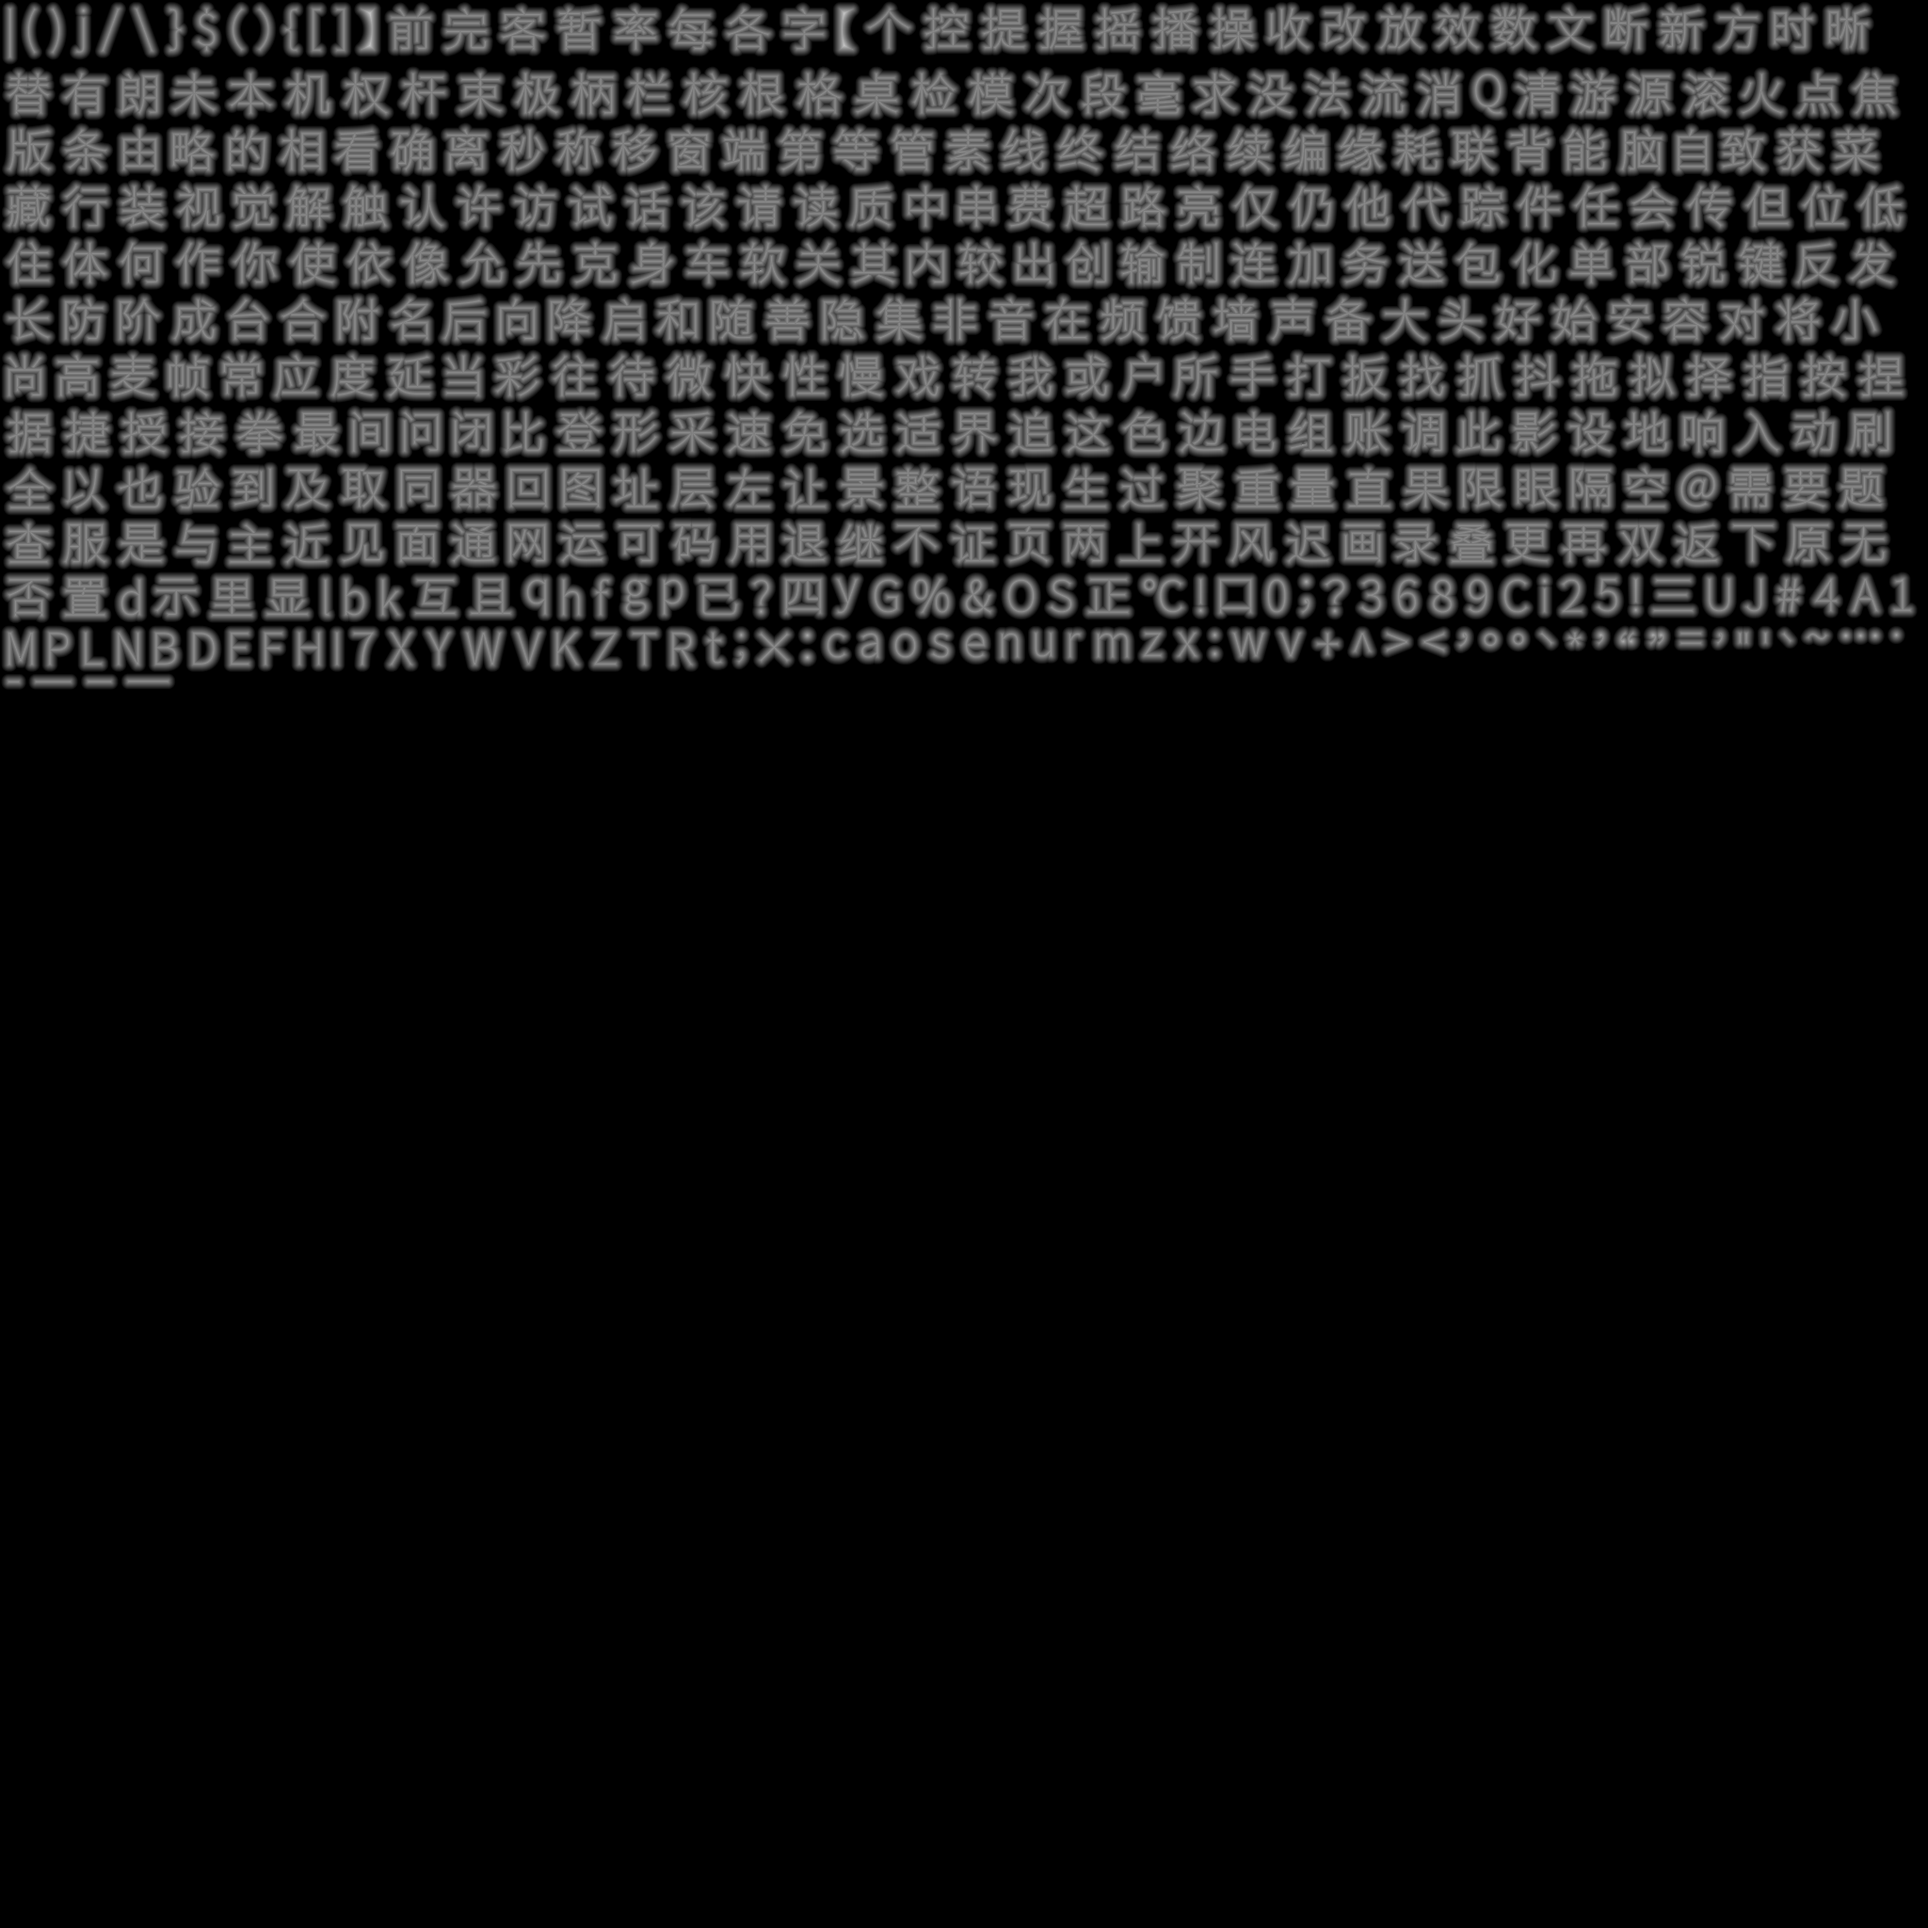
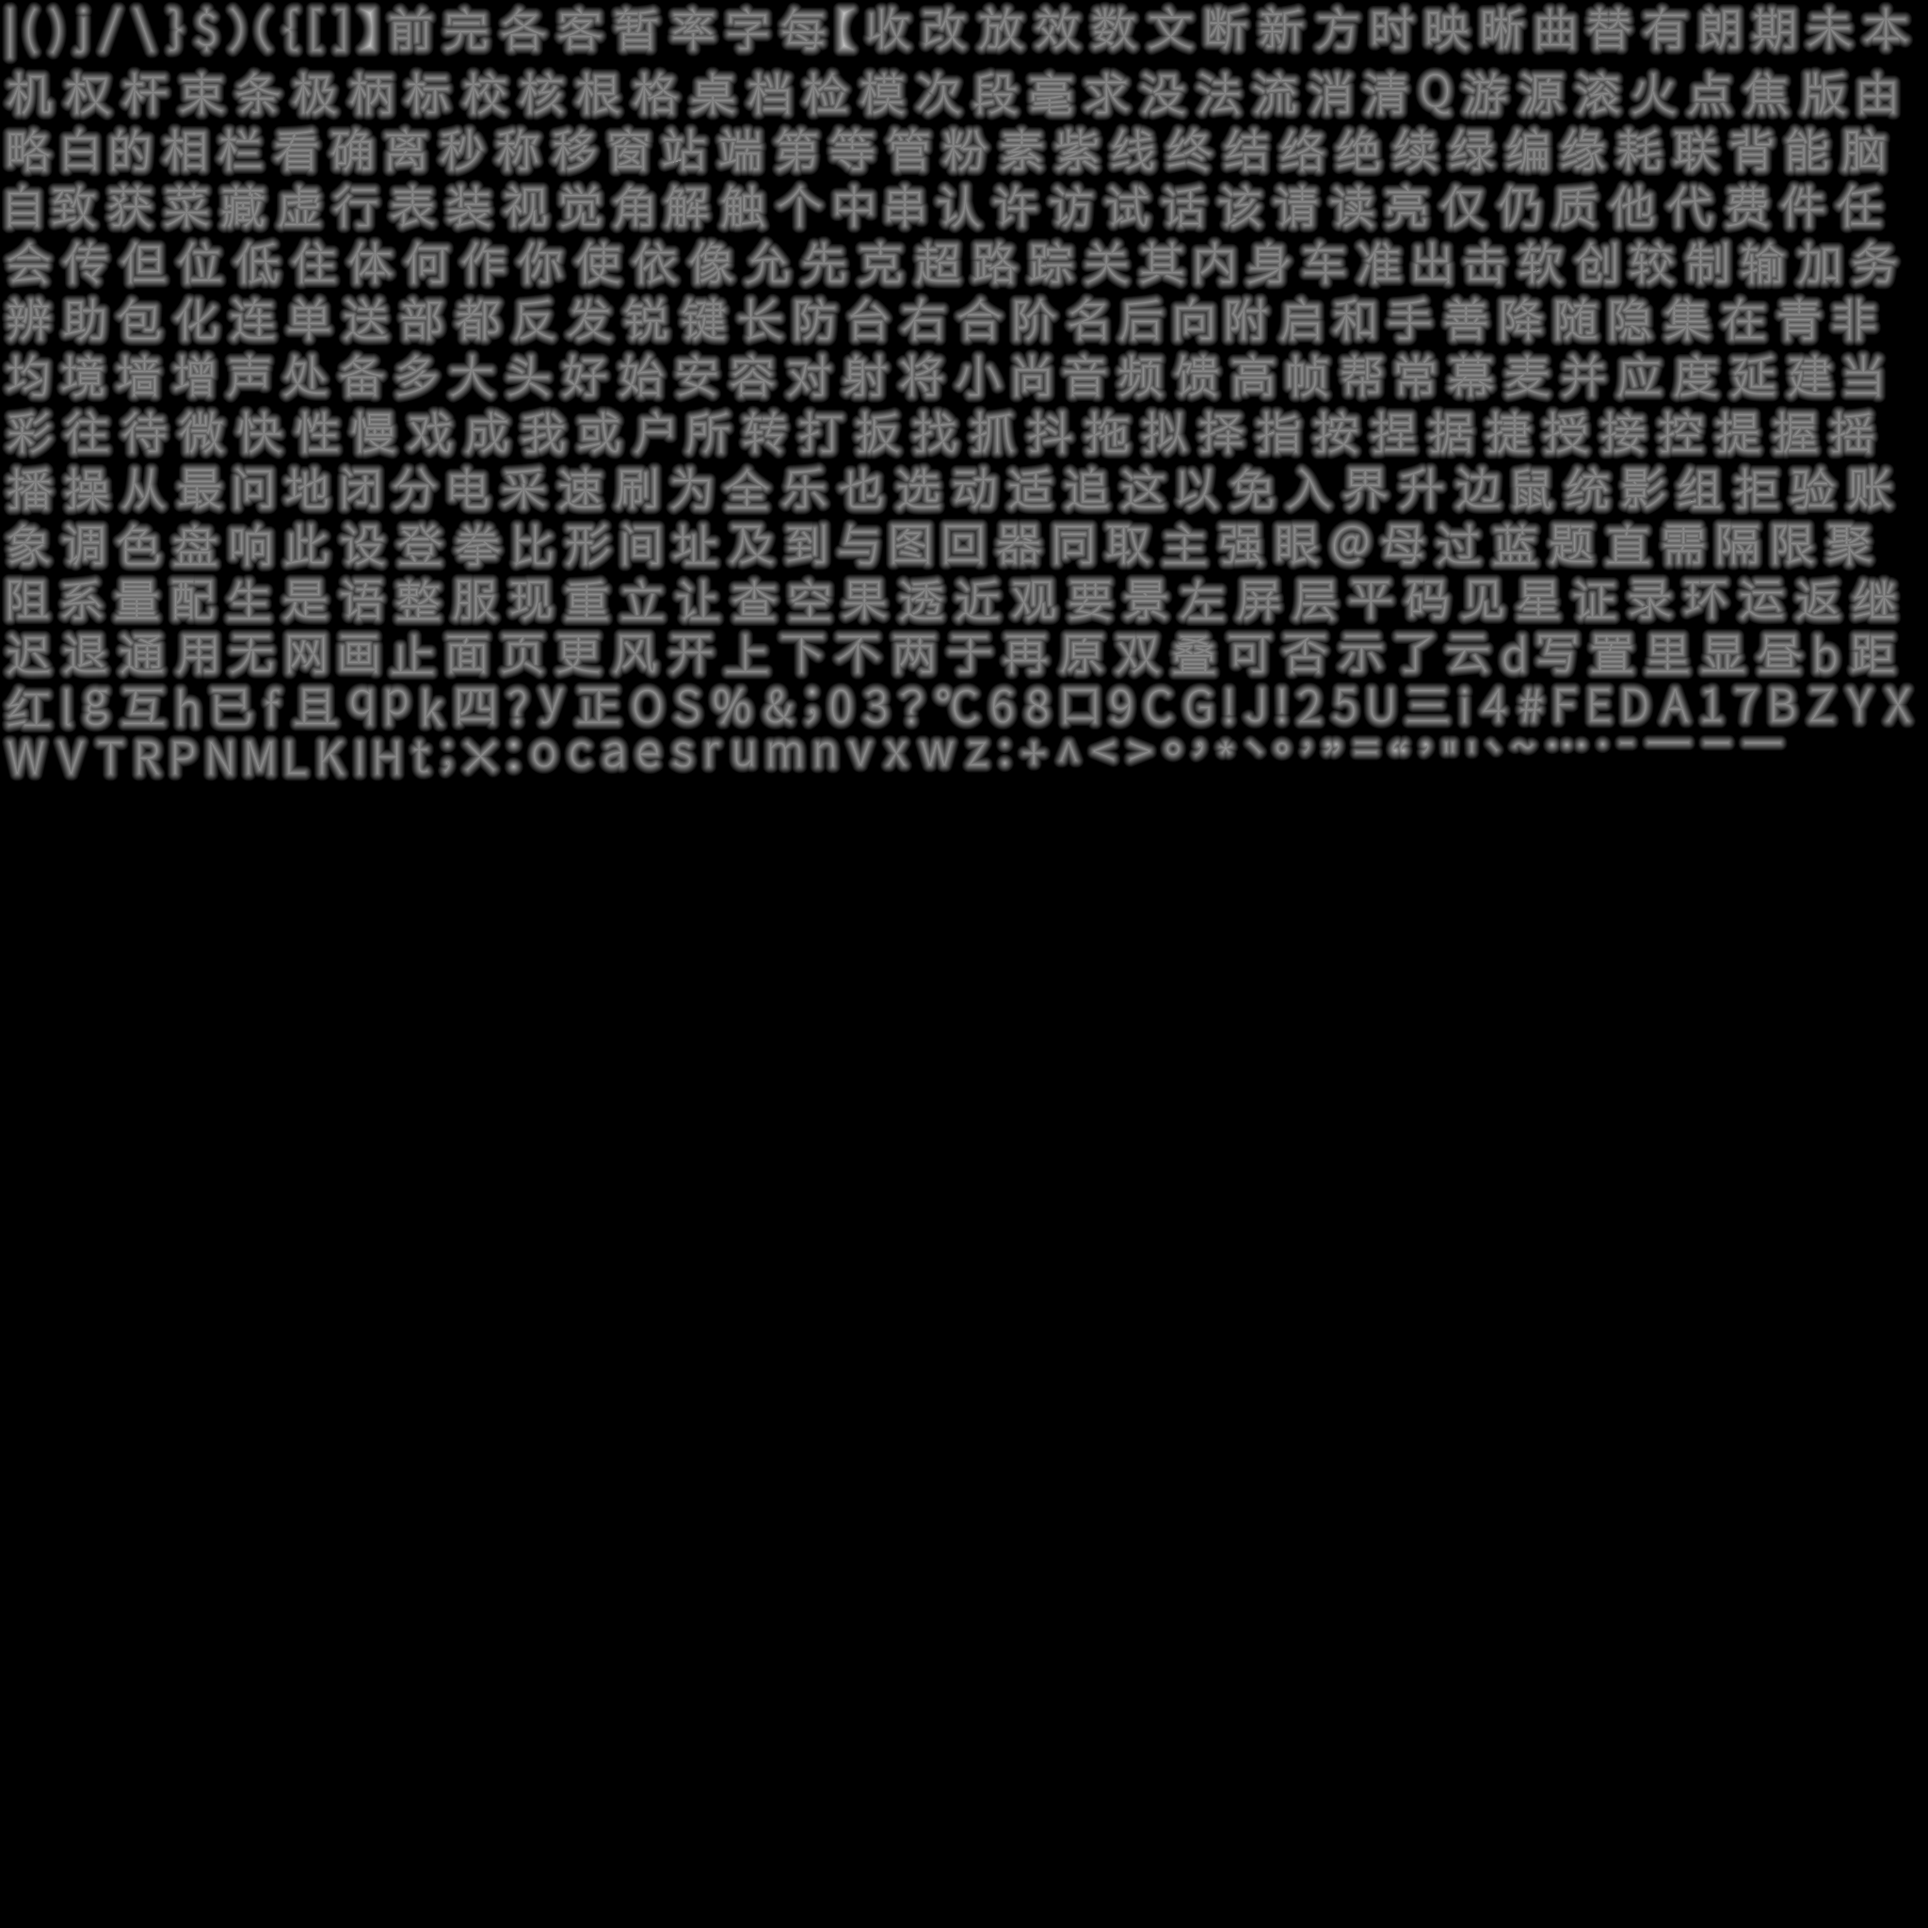
Complete headset zh-CN coverage for menus, Desktop page and status messages

Changed region(s): [[0.0, 0.0, 1.0, 0.4062]]

diff --git a/headset/app/src/main/cpp/ui/localization.h b/headset/app/src/main/cpp/ui/localization.h
@@ -10,12 +10,48 @@ inline const std::unordered_map<std::string, std::string>& Dictionary() {
     static const std::unordered_map<std::string, std::string> k = {
         {"On","开启"},{"Off","关闭"},{"on","开启"},{"off","关闭"},{"selected","已选中"},
         {"Home","主页"},{"PCs","电脑"},{"Games","游戏"},{"Settings","设置"},{"Account","账户"},
+        {"Desktop","桌面"},{"Keyboard","键盘"},{"Menu","菜单"},{"General","通用"},{"Environment","环境"},{"Help","帮助"},
+        {"Esc","退出"},{"Tab","制表"},{"Ctrl","控制"},{"Alt","替代"},{"Win","系统键"},
+        {"Left","左"},{"Up","上"},{"Down","下"},{"Right","右"},{"Shift","上档"},{"Caps","大写"},{"ABC","字母"},
+        {"Image","画面"},{"Maximum","最高"},{"Enhancements","画质增强"},{"Upscaling","升频"},
+        {"Screens","屏幕"},{"Quality","画质"},{"Curve","曲率"},{"Flat","平面"},{"Distance","距离"},{"Recenter","重置视角"},
+        {"Audio","音频"},{"Controllers","控制器"},{"Connecting","连接"},{"Interface","界面"},{"Size","大小"},{"Music","背景音乐"},
+        {"Click","点击"},{"Right-click","右键点击"},{"Scroll","滚动"},{"Middle-click","中键点击"},
+        {"Violet Nebula","紫色星云"},{"Blue Nebula","蓝色星云"},{"Cyan Nebula","青色星云"},{"Green Nebula","绿色星云"},
+        {"Pink Nebula","粉色星云"},{"Red Nebula","红色星云"},{"Day Clouds","白昼云层"},{"Void","虚空"},{"Passthrough","透视"},
+        {"Quest settings","Quest 设置"},{"PICO's settings","PICO 设置"},{"the headset's settings","头显设置"},
+        {"For avatars, through VRCFaceTracking on the PC","用于虚拟形象，可通过电脑端 VRCFaceTracking 使用"},
+        {"Pair Motion Trackers in PICO's tracker app","请在 PICO Motion Tracker 应用中配对追踪器"},
+        {"The Motion Trackers need calibrating","动作追踪器需要校准"},{"Connect more Motion Trackers","请连接更多动作追踪器"},
+        {"Tracking the whole body","正在追踪全身"},{"With PICO Motion Trackers","使用 PICO Motion Tracker"},{"Calibrate","校准"},
         {"Connect","连接"},{"Disconnect","断开连接"},{"Cancel","取消"},{"Dismiss","关闭"},
         {"Try again","重试"},{"Look again","重新查找"},{"Refresh","刷新"},{"Back","返回"},
         {"Choose a PC","选择电脑"},{"Choose a game","选择游戏"},{"Connect to a PC first","请先连接电脑"},
         {"Couldn't connect","无法连接"},{"Couldn't start VR","无法启动 VR"},{"Your PC didn't answer","电脑没有响应"},
         {"Connection problem. " ,"连接出现问题。"},{"Check the connection, then try again.","请检查连接后重试。"},
         {"The connection dropped. Trying again.","连接中断，正在重试。"},{"The PC ended the session.","电脑已结束会话。"},
+        {"Connected","已连接"},{"Disconnected","已断开"},{"Connection lost.","连接已断开。"},
+        {"Network unavailable","网络不可用"},{"The PC refused the connection.","电脑拒绝了连接。"},
+        {"The PC didn't answer over the USB cable. Check RinCast Streamer on the PC for a firewall message.","电脑未通过 USB 数据线响应。请检查电脑端的 RinCast Streamer 是否有防火墙提示。"},
+        {"The PC didn't answer. Check that the VPN is on, on both devices.","电脑没有响应。请确认两台设备均已连接 VPN。"},
+        {"The PC didn't answer. Check that both are on the same network.","电脑没有响应。请确认两台设备处于同一网络。"},
+        {"The PC didn't respond. Make sure the RinCast Streamer is running and online.","电脑没有响应。请确认 RinCast Streamer 正在运行并在线。"},
+        {"No direct connection was possible: both networks block incoming connections. Using the same Wi-Fi, IPv6, or allowing automatic port sharing for the PC in its router helps.","无法建立直连：两端网络都阻止了入站连接。让两台设备使用同一 Wi-Fi、启用 IPv6，或在路由器中为电脑开启自动端口映射会有所帮助。"},
+        {"Your sign-in expired. Sign in again to reach PCs on other networks.","登录已过期。请重新登录以从其他网络连接电脑。"},
+        {"Can't reach the RinCast server. Check your internet connection.","无法连接 RinCast 服务器。请检查网络连接。"},
+        {"Can't reach the RinCast server's connection service.","无法连接 RinCast 服务器的连接服务。"},
+        {"Can't reach the RinCast server.","无法连接 RinCast 服务器。"},
+        {"Sign-in is unavailable right now.","当前无法登录。"},
+        {"The code expired. Try again.","验证码已过期，请重试。"},
+        {"Sign in to connect to PCs on other networks.","请登录以从其他网络连接电脑。"},
+        {"Couldn't connect.","无法连接。"},
+        {"This PC now lets the headset use its mouse and keyboard.","这台电脑现已允许头显使用鼠标和键盘。"},
+        {"This PC turned off the headset's mouse and keyboard. You can still watch.","这台电脑已关闭头显的鼠标和键盘控制，你仍可观看画面。"},
+        {"This PC has the headset's mouse and keyboard turned off. You can still watch.","这台电脑的头显鼠标和键盘控制已关闭，你仍可观看画面。"},
+        {"SteamVR did not start. Check SteamVR on your PC.","SteamVR 未能启动。请检查电脑上的 SteamVR。"},
+        {"SteamVR is not installed on this PC.","此电脑未安装 SteamVR。"},
+        {"Could not launch the game","无法启动游戏"},
+        {"Restart SteamVR to use the new resolution.","请重启 SteamVR 以应用新的分辨率。"},
         {"Waiting for your PC","正在等待电脑"},{"Waiting for you to confirm","等待你确认"},
         {"Looking for your PC","正在查找电脑"},{"Still looking for your PC","仍在查找电脑"},
         {"Looking for games on your PC","正在查找电脑上的游戏"},{"No VR games found","未找到 VR 游戏"},
@@ -108,12 +144,15 @@ inline const std::unordered_map<std::string, std::string>& Dictionary() {
         {"Connected to","已连接到"},{" ms round trip"," 毫秒往返"},
         {" ms"," 毫秒"},{" fps"," 帧"},{" Mbps"," Mbps"},
         {"Frame generation: %u frames in the last %.0f s","帧生成：最近 %u 帧，%.0f 秒"},
+        {"Streamer","串流端"},
         {"Slow over the internet. A faster connection helps","互联网连接较慢，更快的网络会改善体验"},
         {"Slow through the VPN. A direct path between the devices helps","VPN 连接较慢，两台设备直连会有所改善"},
         {"Slow. A cable from the PC to the router helps most","连接较慢，用网线将电脑接到路由器效果最好"},
         {"VR games you install in Steam show up here. They need SteamVR.","安装在 Steam 中的 VR 游戏会出现在这里，需要 SteamVR。"},
         {"Not affiliated with Meta, Valve or Virtual Desktop.","与 Meta、Valve 或 Virtual Desktop 无关联。"},
-        {"Free and open source under the MIT license. Licenses for the parts it uses are in THIRD_PARTY_NOTICES.md, in every release. " ,"根据 MIT 许可证免费开源。第三方组件的许可见每个版本随附的 THIRD_PARTY_NOTICES.md。"}
+        {"Free and open source under the MIT license. Licenses for the parts it uses are in THIRD_PARTY_NOTICES.md, in every release. " ,"根据 MIT 许可证免费开源。第三方组件的许可见每个版本随附的 THIRD_PARTY_NOTICES.md。"},
+        {"Free and open source under the MIT license. Licenses for the parts it uses are in THIRD_PARTY_NOTICES.md, in every release. Not affiliated with Meta, Valve or Virtual Desktop.",
+         "根据 MIT 许可证免费开源。第三方组件的许可见每个版本随附的 THIRD_PARTY_NOTICES.md。与 Meta、Valve 或 Virtual Desktop 无关联。"}
     };
     return k;
 }
@@ -147,6 +186,7 @@ inline std::string Translate(std::string_view english) {
          "，可以在手机或电脑上打开，也可在电脑端 RinCast Streamer 的“账户”页操作。"},
         {" by Scott Buckley - released under CC-BY 4.0. www.scottbuckley.com.au",
          "，由 Scott Buckley 创作，依据 CC-BY 4.0 授权。www.scottbuckley.com.au"},
+        {": Streamer ", "：串流端 "},
         {", slow", "，连接较慢"},
     };
     for (auto [before, after] : suffixes) {
